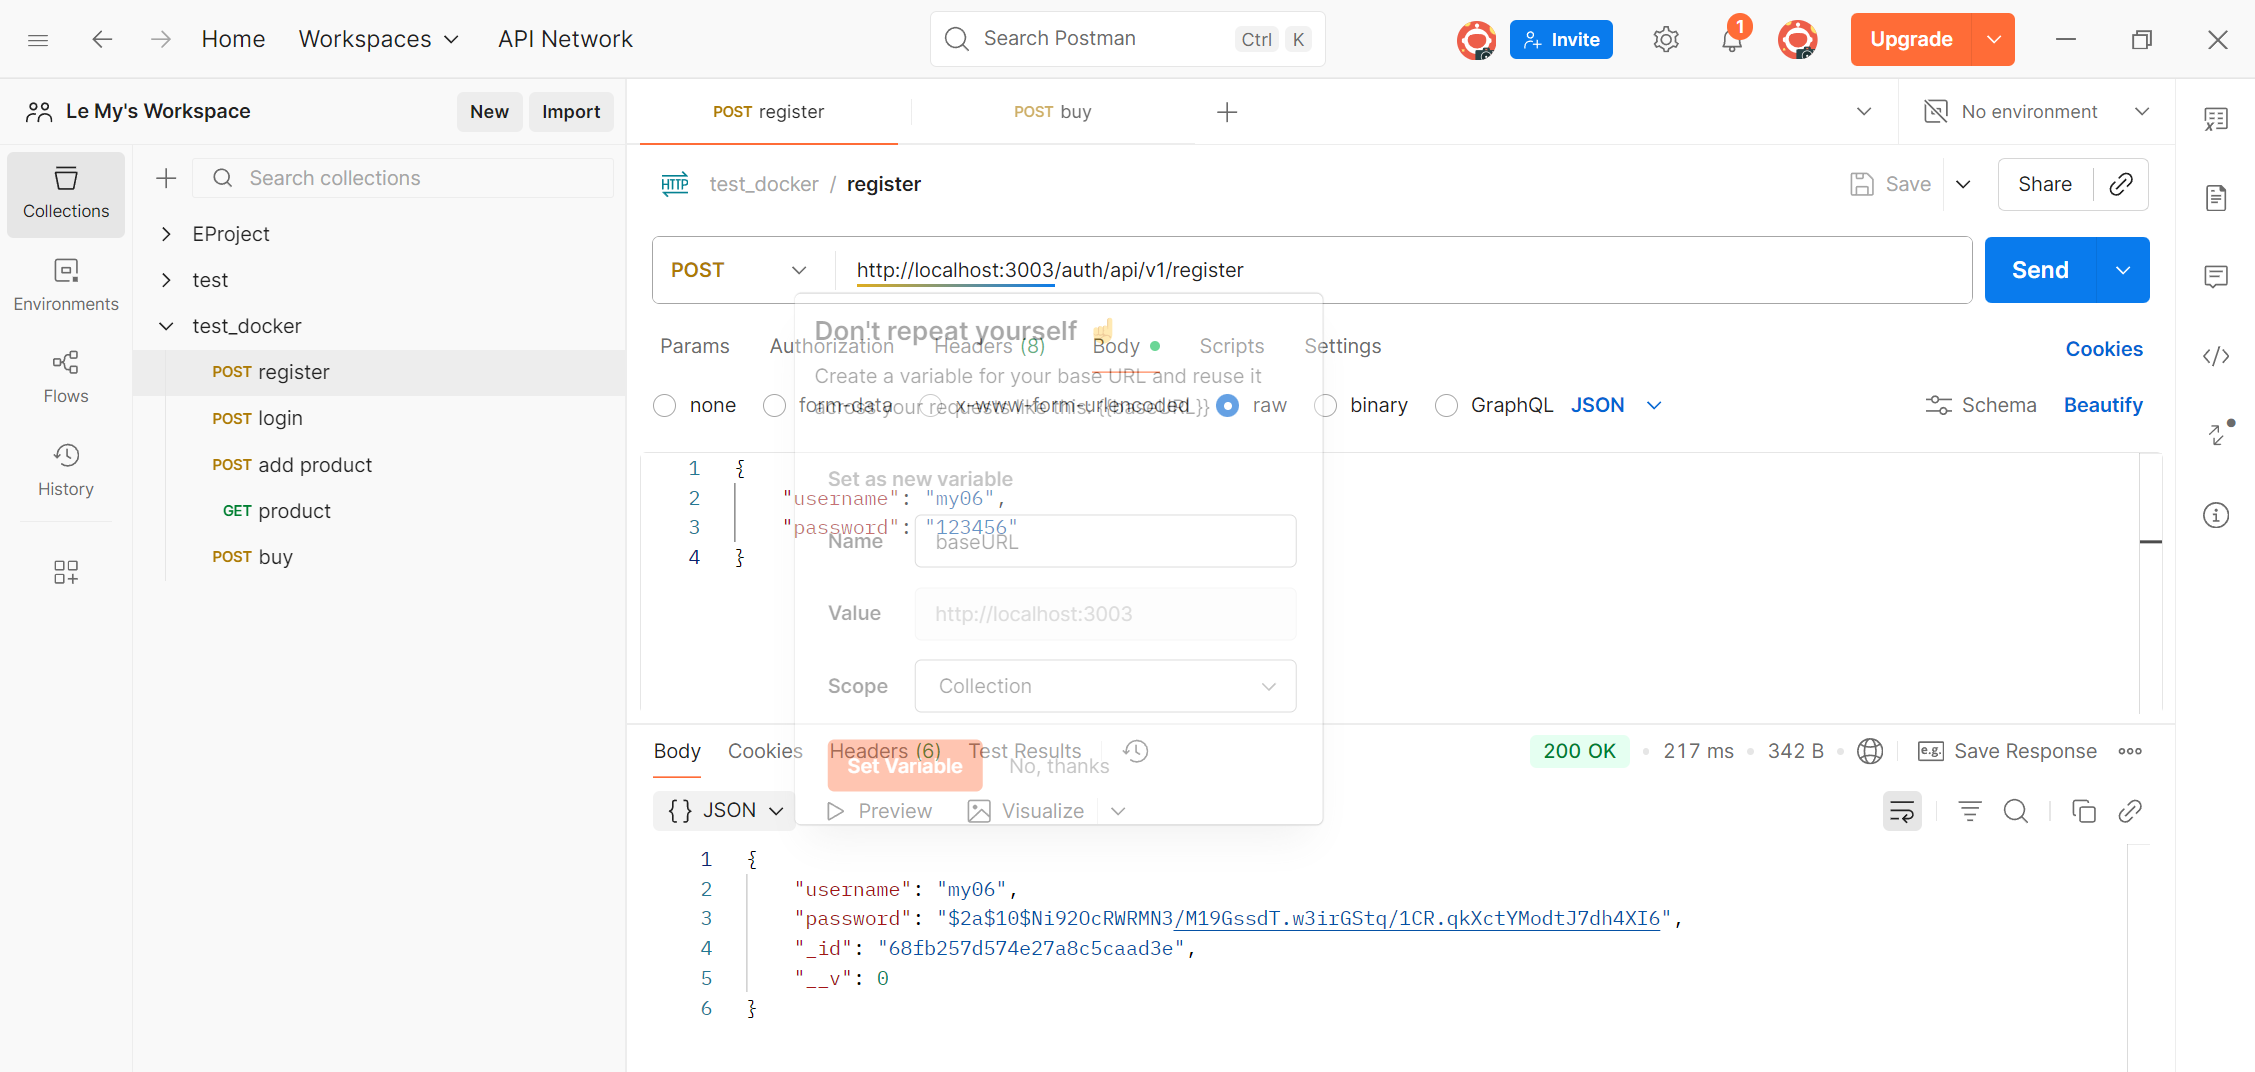
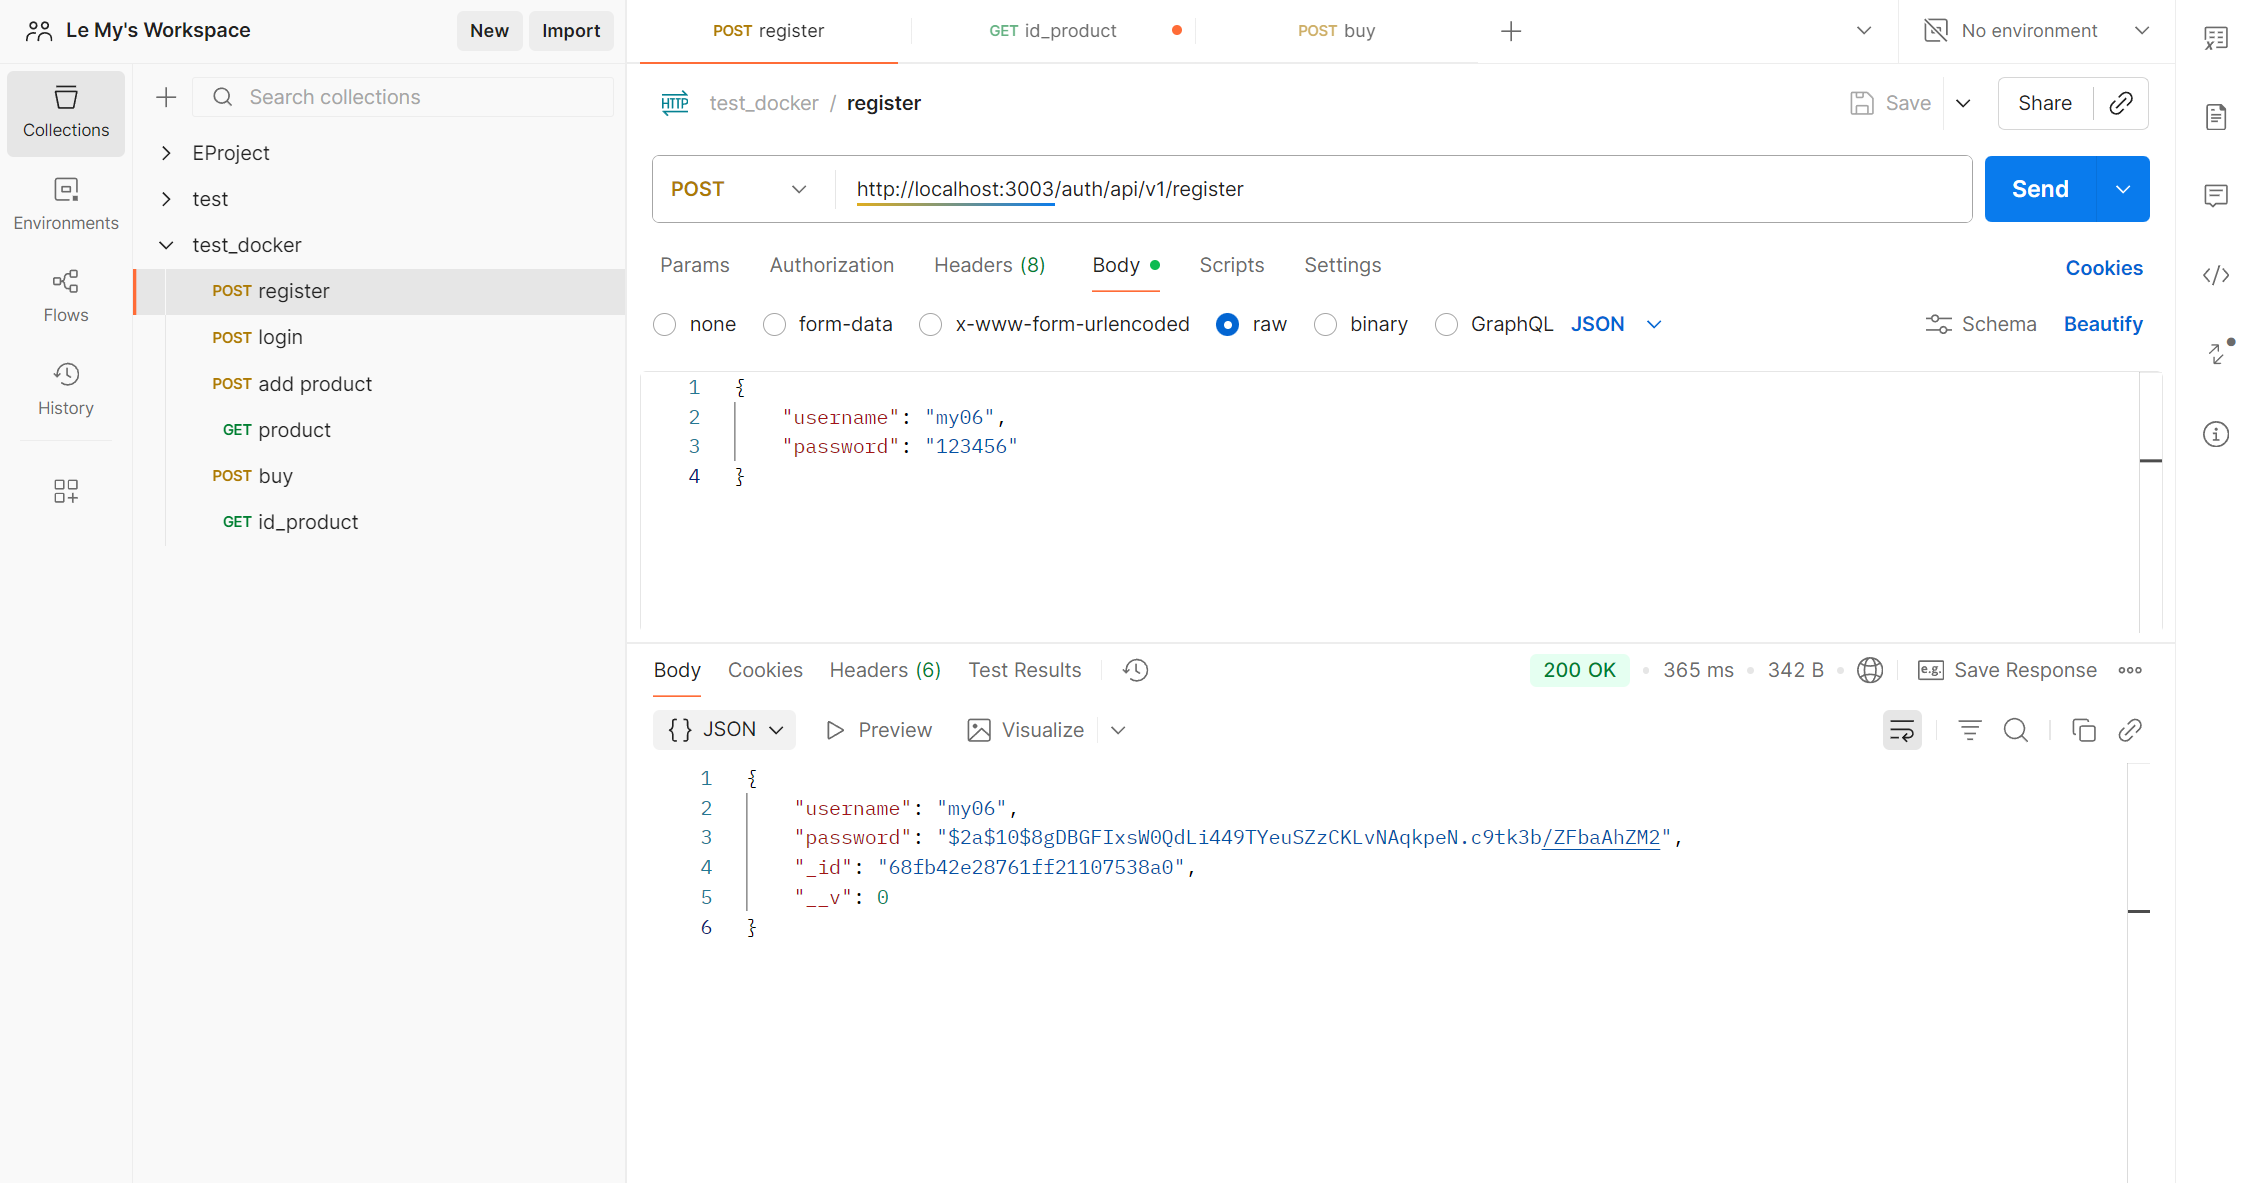
Update all project files

diff --git a/product/src/controllers/productController.js b/product/src/controllers/productController.js
@@ -114,15 +114,17 @@ class ProductController {
     }
   }
 
-  async getProductById(req, res, next) {
-    console.log(req.params.id)
+  async getProductById(req, res) {
     try {
-      const p = await this.productService.getProductById(req.params.id);
-      if (!p) return res.status(404).json({msg: "not found"})
-        res.json(p);
-    } catch (e) {
-      console.error(e);
-      res.status(500).json({msg: e.message});
+      // Lấy ID từ query string, ví dụ: /id?id=6719d92a11d9c7c8737c8993
+      const id = req.query.id;
+      const product = await Product.findById(id);
+      if (!product) {
+        return res.status(404).json({ message: "Product not found" });
+      }
+      res.status(200).json(product);
+    } catch (err) {
+      res.status(500).json({ message: err.message });
     }
   }
 }

diff --git a/product/src/routes/productRoutes.js b/product/src/routes/productRoutes.js
@@ -8,6 +8,6 @@ const productController = new ProductController();
 router.post("/add", isAuthenticated, productController.createProduct);
 router.post("/buy", isAuthenticated, productController.createOrder);
 router.get("/", isAuthenticated, productController.getProducts);
-router.get("/:id", productController.getProductById);
+router.get("/id", productController.getProductById);
 
 module.exports = router;

diff --git a/README.md b/README.md
@@ -285,10 +285,10 @@ npm run dev
 
 ## Mongodb
 
-![user](./public/result/mongo_user.png)
+![mongo_user](./public/result/mongo_user.png)
 
-![user](./public/result/mongo_product.png)
+![mongo_product](./public/result/mongo_product.png)
 
-![user](./public/result/mongo_order.png)
+![mongo_order](./public/result/mongo_order.png)
 
 
